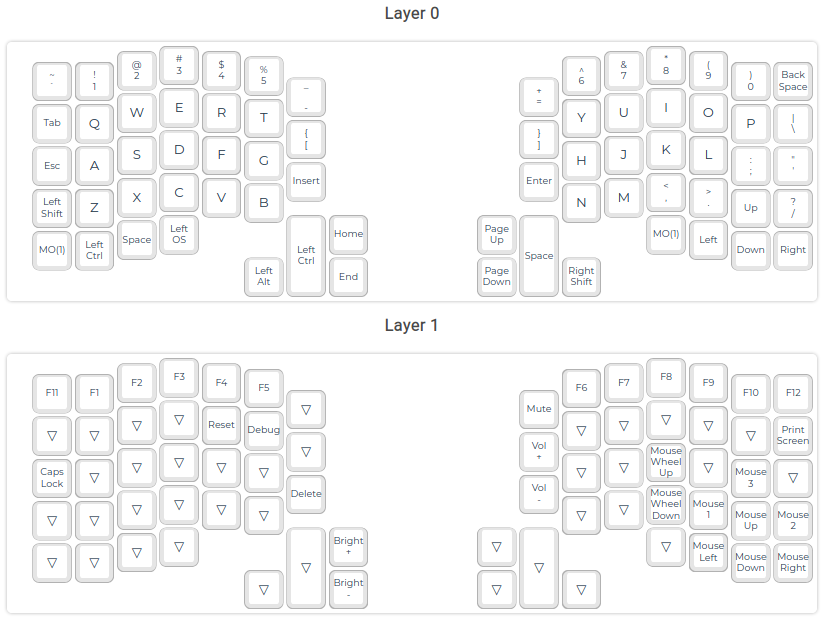
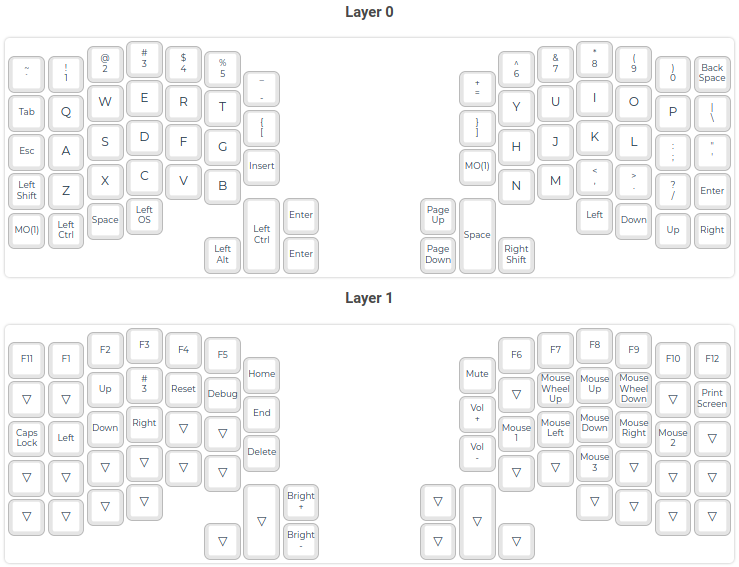
deploy: 26c43e7254901cf3fd983e582e3e4aa6fa0787ef

diff --git a/post/ergo-keyboard/index.html b/post/ergo-keyboard/index.html
@@ -212,7 +212,28 @@ Triển khai
 <div class="highlight"><pre style="color:#f8f8f2;background-color:#272822;-moz-tab-size:4;-o-tab-size:4;tab-size:4"><code class="language-shell" data-lang="shell">docker run --rm -v <span style="color:#e6db74">`</span>pwd<span style="color:#e6db74">`</span>:/data --privileged -v /dev:/dev qmkfm/qmk_firmware qmk flash /data/ergodash_rev1_layout_4key_mine.json</code></pre></div>
 </div>
 <p>
-   Default lúc flash này là cho left hand, còn nếu bạn muốn flash cho right hand hoặc enable thêm mouse mode thì cần phải update mấy file *.c ở trong keyboards/ergodash của qmk_firmware</p>
+Default lúc flash này là cho left hand và không hỗ trợ mouse mode.</p>
+<ul>
+<li>
+<p>Còn nếu bạn muốn flash cho right hand
+Thay đổi ở tệp <code>keyboards/ergodash/rev1/config.h</code></p>
+</li>
+</ul>
+<div class="src src-diff">
+<div class="highlight"><pre style="color:#f8f8f2;background-color:#272822;-moz-tab-size:4;-o-tab-size:4;tab-size:4"><code class="language-diff" data-lang="diff"><span style="color:#a6e22e">+#define MASTER_RIGHT
+</span></code></pre></div>
+</div>
+<ul>
+<li>
+<p>Enable mouse mode</p>
+</li>
+</ul>
+<p>Thay đổi ở tệp <code>keyboards/ergodash/rules.mk</code></p>
+<div class="src src-diff">
+<div class="highlight"><pre style="color:#f8f8f2;background-color:#272822;-moz-tab-size:4;-o-tab-size:4;tab-size:4"><code class="language-diff" data-lang="diff"><span style="color:#f92672">-MOUSEKEY_ENABLE = no       # Mouse keys
+</span><span style="color:#f92672"></span><span style="color:#a6e22e">+MOUSEKEY_ENABLE = yes       # Mouse keys
+</span></code></pre></div>
+</div>
 </div>
 </div>
 </div>
